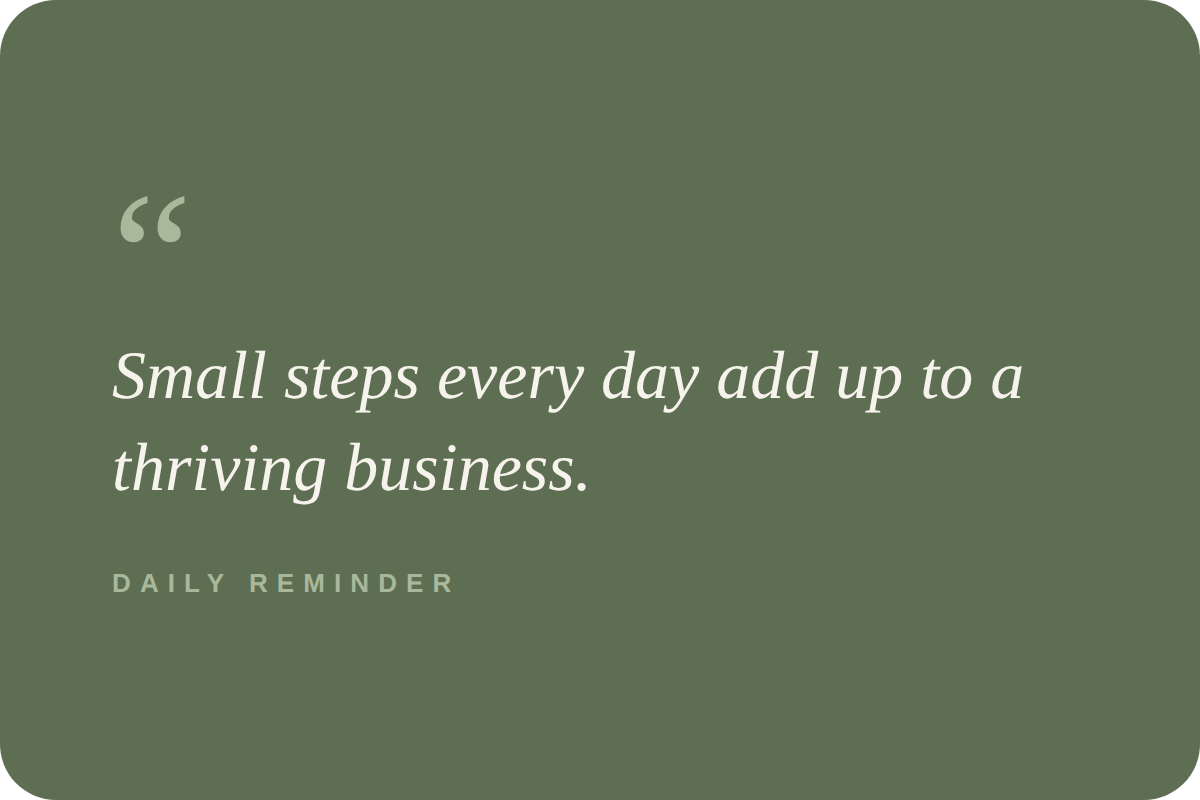
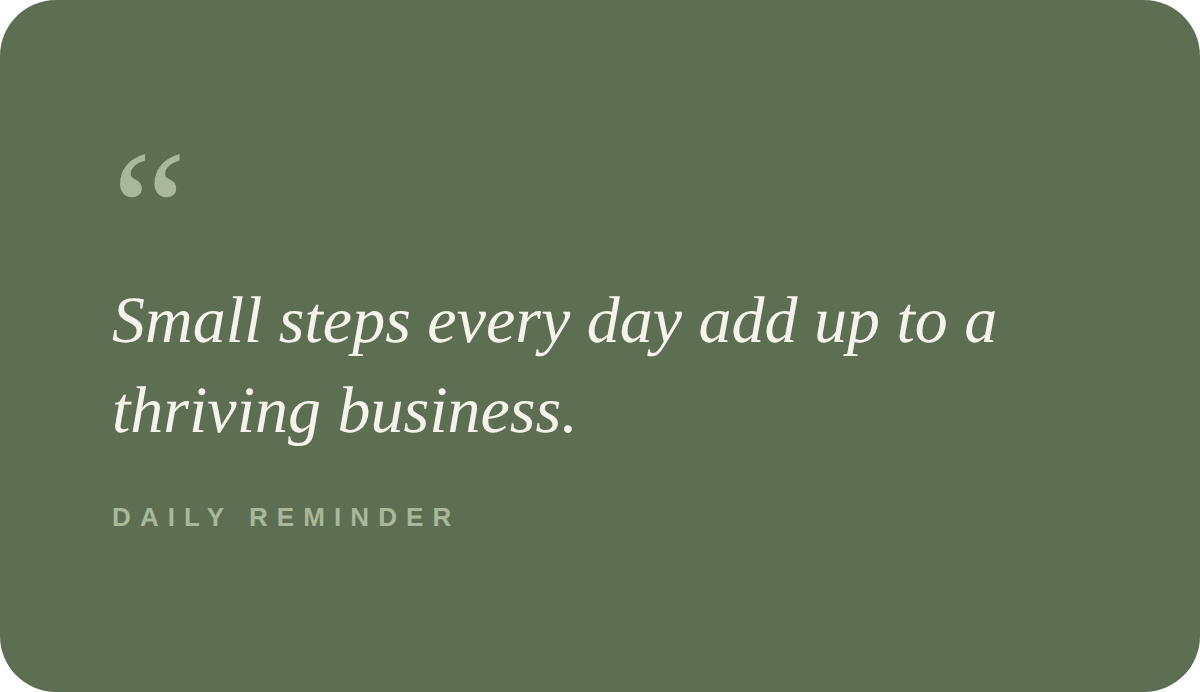
Shorten quote card so it lines up with the dashboard calendar
Claude-Session: https://claude.ai/code/session_018rJttHhDpUBbXbrgs4rudU

diff --git a/notion-templates/small-business-os/render.js b/notion-templates/small-business-os/render.js
@@ -63,11 +63,12 @@ const tile = (ico, bg, num) => page(600, 400, `
     </div>
   </div>`);
 
-const quote = page(600, 400, `
-  <div style="width:600px;height:400px;border-radius:28px;background:${C.sageDeep};display:flex;flex-direction:column;justify-content:center;padding:0 56px">
-    <div style="font:400 90px/0.6 ${SERIF};color:${C.sageMid}">“</div>
-    <div style="font:italic 400 34px/1.35 ${SERIF};color:${C.cream};margin-top:10px">Small steps every day add up to a thriving business.</div>
-    <div style="font:600 13px/1 ${SANS};letter-spacing:.35em;color:${C.sageMid};margin-top:28px">DAILY REMINDER</div>
+// 600x346 so the card's bottom edge lines up with the dashboard calendar.
+const quote = page(600, 346, `
+  <div style="width:600px;height:346px;border-radius:28px;background:${C.sageDeep};display:flex;flex-direction:column;justify-content:center;padding:0 56px">
+    <div style="font:400 84px/0.6 ${SERIF};color:${C.sageMid}">“</div>
+    <div style="font:italic 400 33px/1.35 ${SERIF};color:${C.cream};margin-top:8px">Small steps every day add up to a thriving business.</div>
+    <div style="font:600 13px/1 ${SANS};letter-spacing:.35em;color:${C.sageMid};margin-top:24px">DAILY REMINDER</div>
   </div>`);
 
 (async () => {
@@ -82,6 +83,6 @@ const quote = page(600, 400, `
   await shot('cover.png', cover, 1500, 600);
   await shot('icon.png', icon, 280, 280);
   for (const [n, ico, bg, num] of TILES) await shot(`tile-${n}.png`, tile(ico, bg, num), 600, 400);
-  await shot('quote.png', quote, 600, 400);
+  await shot('quote.png', quote, 600, 346);
   await browser.close();
 })();
